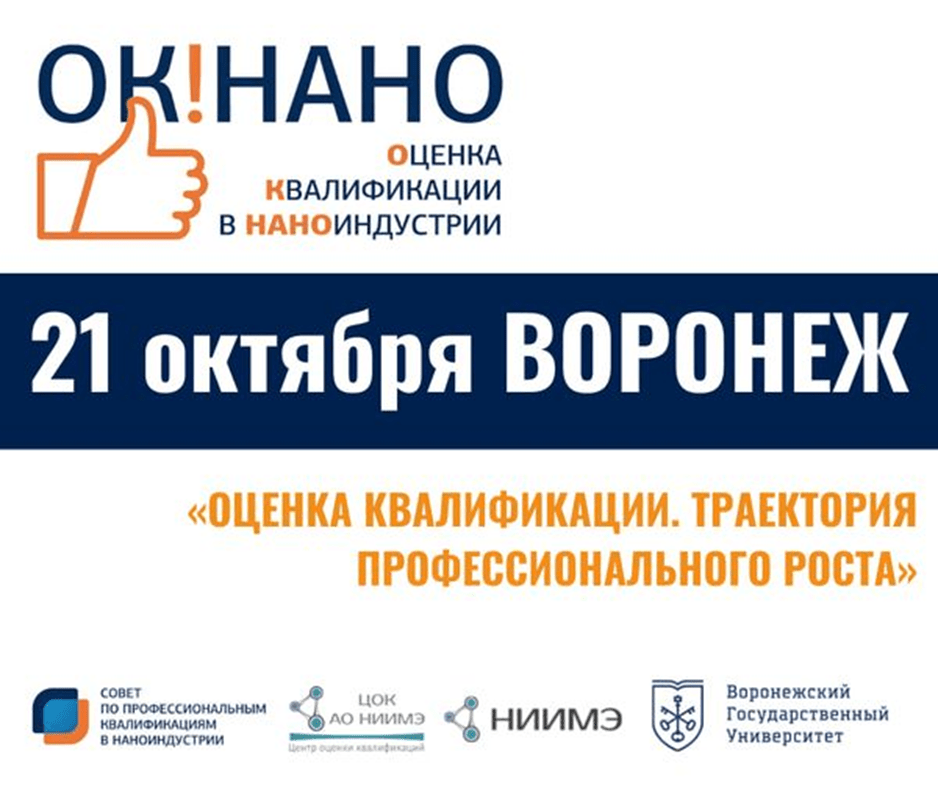
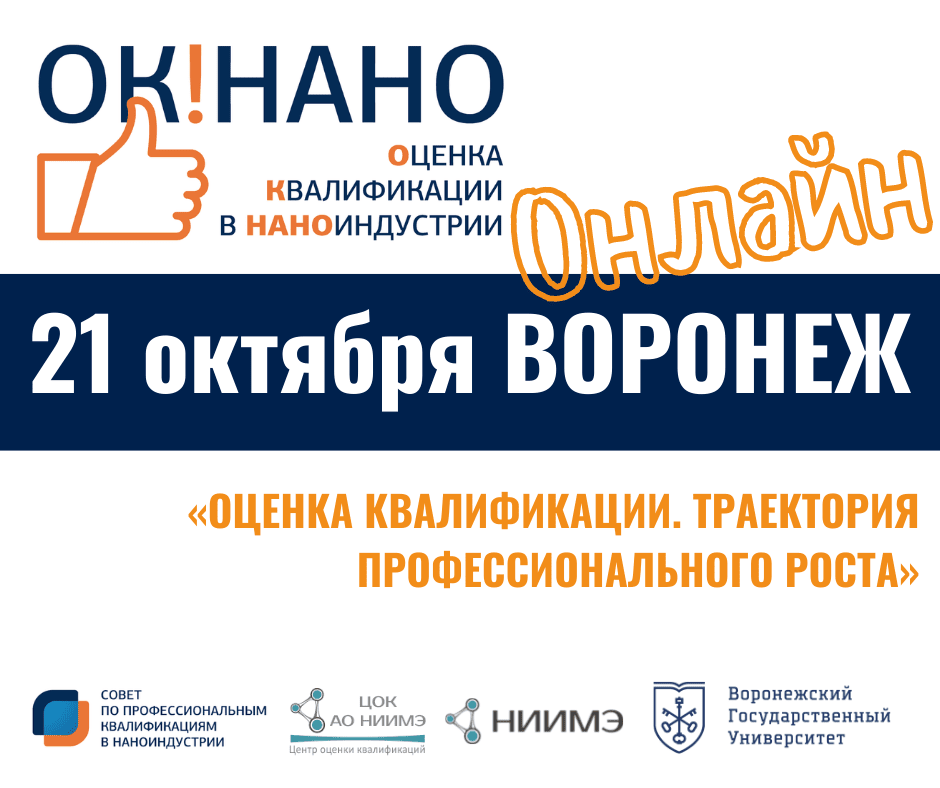
change news for 111021

diff --git a/111021.php b/111021.php
@@ -81,22 +81,26 @@
                                 электроники» и ФГБОУ ВО «Воронежский государственный университет» проводит
                                 мероприятие <b>«Оценка квалификации. Траектория профессионального роста»</b> в рамках
                                 <b>регионального проекта «ОК!НАНО–тур».</b></p>
-                            <p>Мероприятие организовано на площадке ФГБОУ ВО «Воронежский государственный
-                                университет». </p>
-                            <p>В рамках <b>pitch-сессии</b> будут обсуждаться актуальные вопросы кадрового обеспечения
+                            <p>Мероприятие пройдет в формате онлайн-конференции, на которой будут рассмотрены
+                                актуальные вопросы кадрового обеспечения высокотехнологичных
+                                производств в регионах и преимущества от применения системы независимой оценки
+                                квалификации для выпускников, специалистов и работодателей Воронежской области.</p>
+                            <!--<p>В рамках <b>pitch-сессии</b> будут обсуждаться актуальные вопросы кадрового обеспечения
                                 высокотехнологичных производств в регионах и преимущества от применения системы
                                 независимой оценки квалификации для выпускников, специалистов и работодателей
-                                Воронежской области.</p>
+                                Воронежской области.</p>-->
                             <p>Спикерами выступят представители администрации Воронежа и Воронежской области,
                                 руководители инновационных предприятий и бизнес-структур, работающих в сфере
                                 наноиндустрии и высокотехнологичных отраслях региона, а также образовательные
                                 организации региона.</p>
                             <p>Представители ключевых институтов, участвующих в развитии научно-технического и
                                 экономического потенциала Воронежской области определят дальнейшие шаги по
-                                развитию системы оценки квалификации в регионе и подпишут Соглашение о
+                                развитию системы оценки квалификации в регионе и обсудят Соглашение о
                                 сотрудничестве с Советом по развитию Национальной системы квалификаций в сфере
                                 наноиндустрии.</p>
-                            <p>Для студентов вузов Воронежа и специалистов предприятий, работающих в сфере
+                            <p>Участие в мероприятии бесплатное, регистрация на сайте
+                                <a href="http://oknano-tur.ru/voronezh" target="_blank">http://oknano-tur.ru/voronezh</a></p>
+                           <!-- <p>Для студентов вузов Воронежа и специалистов предприятий, работающих в сфере
                                 разработки и производства приборов на электронно-компонентной базе,
                                 будет организована <b>экспертная площадка</b>.</p>
                             <p>Во время работы экспертной площадки сотрудники предприятий смогут бесплатно пройти
@@ -178,18 +182,9 @@
                                     </td>
                                 </tr>
                                 </tbody>
-                            </table>
+                            </table>-->
 
-                            <p></p>
-                            <p></p>
-                            <p></p>
-                            <p></p>
-                            <p></p>
-                            <p></p>
-                            <p></p>
-                            <p></p>
                         </div>
-
                     </div><!-- .entry end -->
                 </div>
             </div>
